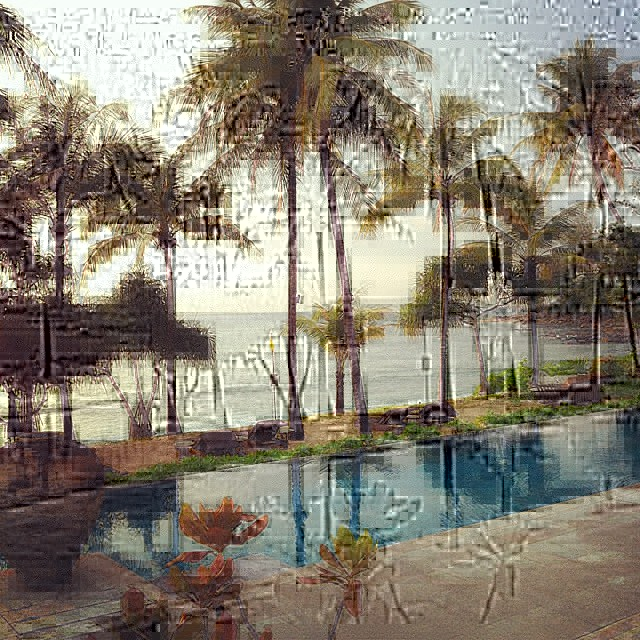
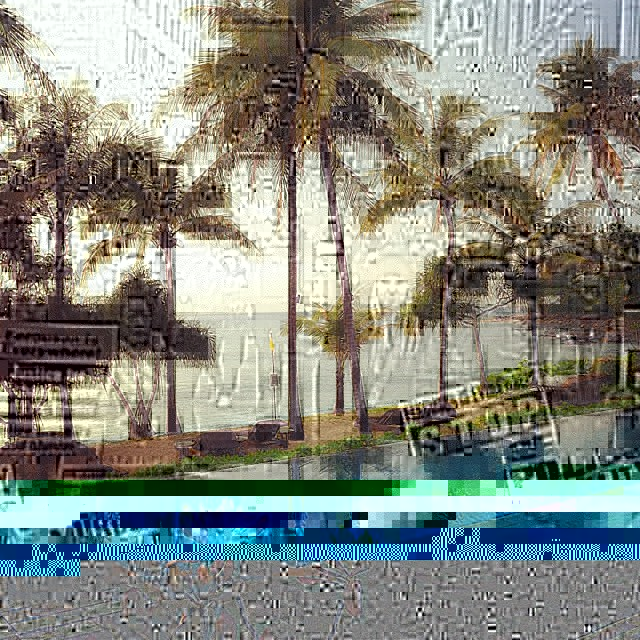
good code good imagery

diff --git a/ImageSwapper.c b/ImageSwapper.c
@@ -22,7 +22,7 @@ int main()
 //GLOBALS
 //Runtime changeable variables max file size and number of exchanges
 	long max_file_size = 1000000;
-	int swaps = 10;
+	int swaps = 25;
 
 //3 image files 1: first image 2: second image 3: image to write new image to
 	FILE *img; 
@@ -75,10 +75,10 @@ int main()
 //SET LOW/HIGH BASED ON ACTUAL FILE SIZES
 	if(file_size_1>file_size_2){
 		high = file_size_2;
-		low = .05 * file_size_2;
+		low = .04 * file_size_2;
 	} else {
 		high = file_size_1;
-		low = .05 * file_size_1;
+		low = .04 * file_size_1;
 	}
 
 //LOOP CREATES RANGES, POPULATES RANGE ARRAY, 
@@ -95,7 +95,7 @@ int main()
 			int this_skips = 0; //holds number of skips in this iteration
 			if(target<=swaps*2){
 				printf("target (%d) is less than swaps (%d) (*2) \n", target, swaps );
-				if(range_array[target] - range_array[target-1] > 5){
+				if(range_array[target] - range_array[target-1] > 1000){
 					printf("range_array[%d](%lu) - range_array[%d](%lu) = %lu\n", target, range_array[target], target-1, range_array[target-1], range_array[target]-range_array[target-1]);
 					long new_val = random_number(range_array[target-1], range_array[target]);
 					/*Shift array to place new value in appropriate location
@@ -137,6 +137,7 @@ int main()
 	for(int i=1; i<range_array_length-1; i +=2){
 		low_range = range_array[i];
 		high_range = range_array[i+1];
+		
 		for(int j = range_array[i]; j<range_array[i+1]; j++){
 			img_buff[j] = img2_buff[j];
 		}
